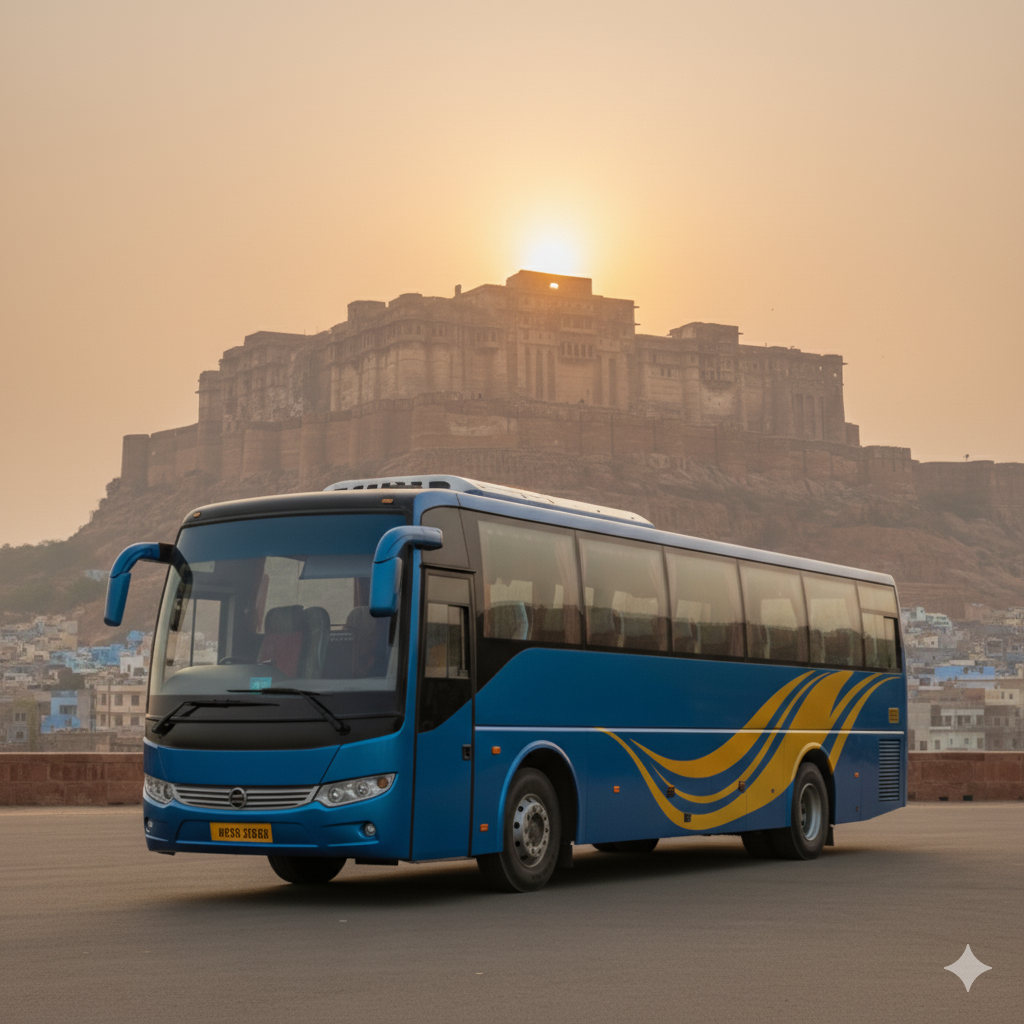
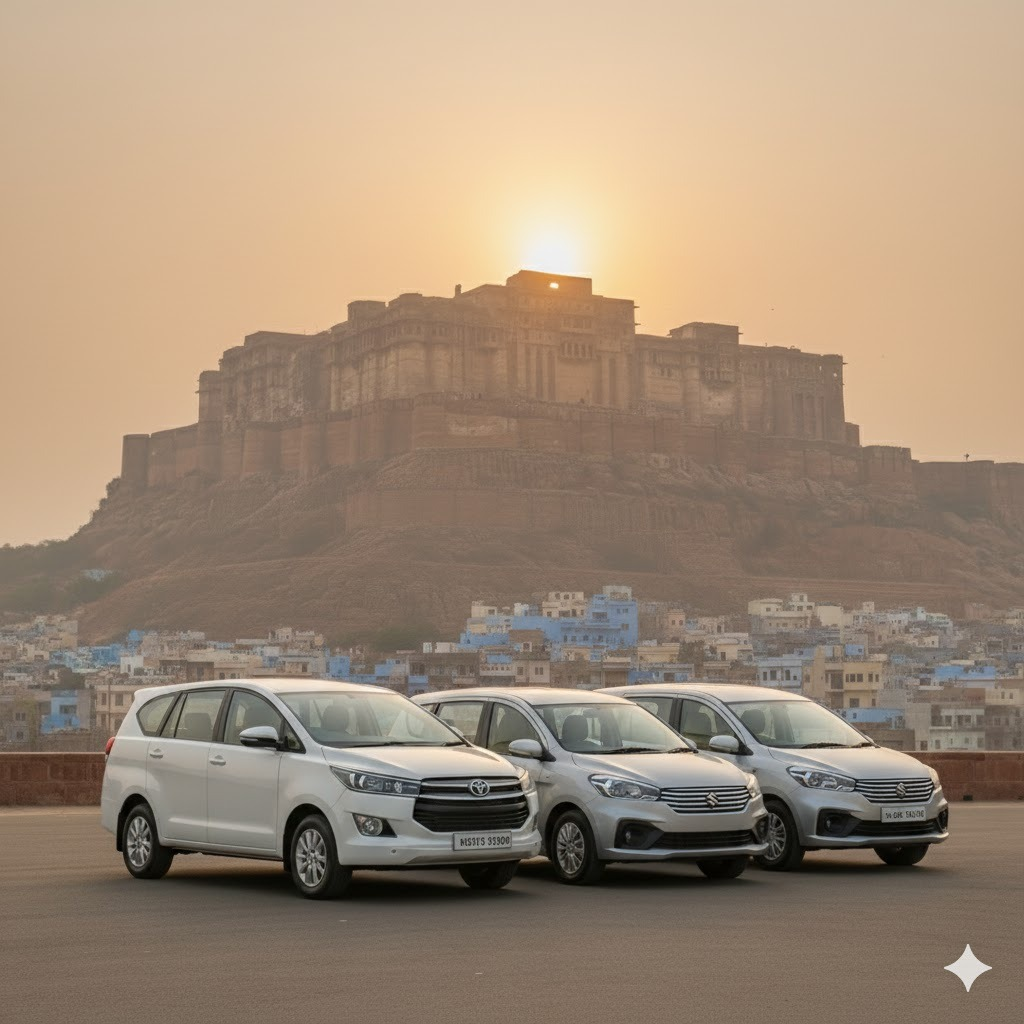
changes

Changed region(s): [[0.0625, 0.4375, 0.9375, 0.9062], [0.9062, 0.9062, 0.9688, 0.9688]]

diff --git a/frontend/src/Components/SchoolFleetServices/FleetServices.jsx b/frontend/src/Components/SchoolFleetServices/FleetServices.jsx
@@ -6,37 +6,37 @@ const FleetServices = () => {
   const fleetItems = [
     {
       title: "Student Safety First",
-      image: "/assets/schoolfleetservice.png",
+      image: "/assets/schoolfleetservice2.png",
       contentIcon: "/assets/safety-icon.svg",
       description: "Safety is our top priority. Our vehicles are equipped with GPS tracking, speed limit monitoring, CCTV cameras, and emergency response systems to ensure the security of every child."
     },
     {
       title: "Trained and Verified Drivers",
-      image: "/assets/schoolfleetservice.png",
+      image: "/assets/schoolfleetservice2.png",
       contentIcon:  "/assets/safety-icon.svg",
       description: "All our drivers undergo rigorous training in safety protocols and are thoroughly background-verified, also regularly counseled to uphold the highest standards of professionalism."
     },
     {
       title: "Reliable and Punctual Services",
-      image: "/assets/schoolfleetservice.png",
+      image: "/assets/schoolfleetservice2.png",
       contentIcon:  "/assets/safety-icon.svg",
       description: "We understand the importance of adhering to school schedules. Our fleet operations are meticulously planned to ensure on-time pickups and drop-offs every day."
     },
     {
       title: "Well-Maintained Vehicles",
-      image: "/assets/schoolfleetservice.png",
+      image: "/assets/schoolfleetservice2.png",
       contentIcon:  "/assets/safety-icon.svg",
       description: "Each vehicle in our fleet undergoes regular maintenance checks to ensure optimal performance, cleanliness, and roadworthiness."
     },
     {
       title: "Technology Integration",
-      image: "/assets/schoolfleetservice.png",
+      image: "/assets/schoolfleetservice2.png",
       contentIcon:  "/assets/safety-icon.svg",
       description: "Advanced technology like real-time tracking allows parents and school authorities to monitor the fleet's location, adding an extra layer."
     },
     {
       title: "Customizable Solutions",
-      image: "/assets/schoolfleetservice.png",
+      image: "/assets/schoolfleetservice2.png",
       contentIcon:  "/assets/safety-icon.svg",
       description: "Our services are tailored to meet the unique transportation requirements of different schools, whether it's for daily commutes or special events."
     }
@@ -107,7 +107,7 @@ const FleetServices = () => {
                   <img 
                     src={fleetItems[activeIndex].image} 
                     alt={`${fleetItems[activeIndex].title} Vehicle`}
-                    className="w-full h-64 object-cover rounded-xl"
+                    className="w-full h-90 object-cover rounded-xl"
                   />
                 </div>
                 

diff --git a/frontend/src/Components/Aboutus/Leadership.jsx b/frontend/src/Components/Aboutus/Leadership.jsx
@@ -1,10 +1,12 @@
 import React from "react";
 import img from '../../images/team/leadership.png'
 import { HiArrowRight } from "react-icons/hi";
+import { Link } from "react-router-dom";
+
 
 function CompanyStructure() {
   return (
-    <div className="min-h-screen py-12 px-4 bg-white flex flex-col items-center">
+    <div className=" py-12 px-4 bg-white flex flex-col items-center">
       <div className="max-w-5xl w-full flex flex-col md:flex-row gap-12 mb-12 items-stretch">
 
         <div className="flex-1 flex">
@@ -36,15 +38,19 @@ function CompanyStructure() {
 
 
           <div className="flex items-center gap-3 mt-8">
-            <a href="/structure" className="flex items-center">
-              <button className="bg-red-500 text-white font-semibold py-2 px-6 rounded-lg text-sm hover:bg-red-600 transition duration-300 flex items-center">
-                Know More
-              </button>
-              <button className="bg-red-500 text-white font-semibold ml-3 p-2 rounded-full hover:bg-red-600 transition duration-300 flex items-center justify-center">
-                <HiArrowRight className="text-white text-lg" />
-              </button>
-            </a>
-          </div>
+  <Link to="/structure" className="flex items-center">
+
+    <div className="bg-red-500 text-white font-semibold py-2 px-6 rounded-lg text-sm hover:bg-red-600 transition duration-300 flex items-center">
+      Know More
+    </div>
+
+    <div className="bg-red-500 text-white font-semibold ml-3 p-2 rounded-full hover:bg-red-600 transition duration-300 flex items-center justify-center">
+      <HiArrowRight className="text-white text-lg" />
+    </div>
+
+  </Link>
+</div>
+
         </div>
       </div>
     </div>

diff --git a/frontend/src/Components/Ournumbers.jsx b/frontend/src/Components/Ournumbers.jsx
@@ -58,9 +58,9 @@ const useCountUp = (end, duration = 3000) => {
 
 function Ournumbers() {
   const [experienceCount, experienceRef] = useCountUp(35);
-  const [employeesCount, employeesRef] = useCountUp(10000);
-  const [vehiclesCount, vehiclesRef] = useCountUp(4312);
-  const [clientsCount, clientsRef] = useCountUp(231);
+  const [employeesCount, employeesRef] = useCountUp(15000);
+  const [vehiclesCount, vehiclesRef] = useCountUp(4000);
+  const [clientsCount, clientsRef] = useCountUp(130);
   const [toursCount, toursRef] = useCountUp(97423);
 
   const stats = [
@@ -74,7 +74,7 @@ function Ournumbers() {
     {
       value: employeesCount,
       suffix: "+",
-      label: "Employees",
+      label: "Daily Employee Transportation",
       ref: employeesRef,
       icon: <GoPersonFill className="w-6 h-6 text-yellow-400 mr-2" />,
     },
@@ -88,14 +88,14 @@ function Ournumbers() {
     {
       value: clientsCount,
       suffix: "+",
-      label: "Corporate Clients",
+      label: "Clients",
       ref: clientsRef,
       icon: <MdCorporateFare className="w-6 h-6 text-yellow-400 mr-2" />,
     },
     {
       value: toursCount,
       suffix: "+",
-      label: "Successful Transportation",
+      label: "3.05 Million Trips in FY 24-25",
       ref: toursRef,
       icon: <BsBusFront className="w-6 h-6 text-yellow-400 mr-2" />,
     },

diff --git a/frontend/src/Components/Gallery/OurFirstBuses.jsx b/frontend/src/Components/Gallery/OurFirstBuses.jsx
@@ -1,0 +1,41 @@
+import React from "react";
+
+import img1 from '../../images/Gallery/restore 1.jpeg';
+import img2 from '../../images/Gallery/restore 2.jpeg';
+
+const OurFirstBuses = ({
+  title = "Our First Buses",
+  images = [img1, img2],
+}) => {
+  return (
+    <section className="py-12 px-4 bg-white">
+      <div className="max-w-4xl mx-auto">
+        <h2 className="text-3xl md:text-4xl font-extrabold text-gray-900 mb-8 text-center">
+          {title}
+        </h2>
+
+        <div className="grid grid-cols-1 md:grid-cols-2 gap-4">
+          {/* Image 1 */}
+          <div className="rounded-2xl overflow-hidden shadow-lg group h-64">
+            <img
+              src={images[0]}
+              alt="Historic CTTPL Bus"
+              className="w-full h-full object-cover transform group-hover:scale-105 transition-transform duration-300"
+            />
+          </div>
+
+          {/* Image 2 */}
+          <div className="rounded-2xl overflow-hidden shadow-lg group h-64">
+            <img
+              src={images[1]}
+              alt="Legacy Vehicle of CTTPL"
+              className="w-full h-full object-cover transform group-hover:scale-105 transition-transform duration-300"
+            />
+          </div>
+        </div>
+      </div>
+    </section>
+  );
+};
+
+export default OurFirstBuses;

diff --git a/frontend/src/Components/Aboutus/Page1.jsx b/frontend/src/Components/Aboutus/Page1.jsx
@@ -111,12 +111,12 @@ function Counter({ end = 0, duration = 1800, startOnView = true }) {
 
 export default function Home() {
   const stats = [
-    { icon: Car, number: 45, label: "Trusted Service" },
-    { icon: Users, number: 10000, label: "Happy Clients" },
-    { icon: Car, number: 4312, label: "Vehicles in Fleet" },
-    { icon: Building, number: 231, label: "Corporate Clients" },
-    { icon: Calendar, number: 97423, label: "Tours & Trips" },
-    { icon: MapPin, number: 10, label: "States & Cities" },
+    { icon: Car, number: 35, label: "Years of Trusted Service" },
+    { icon: Users, number: 15000, label: "Daily Employee Transportation" },
+    { icon: Car, number: 4000, label: "Vehicles and Fleets" },
+    { icon: Building, number: 130, label: "Clients" },
+    { icon: Calendar, number: 97450, label: "Tours & Trips" },
+    { icon: MapPin, number: 100, label: "Cities" },
   ];
 
   return (

diff --git a/frontend/src/Components/EmployeeTransportService.jsx b/frontend/src/Components/EmployeeTransportService.jsx
@@ -1,7 +1,7 @@
 import React from 'react';
 import Getintouch from "../Components/Getintouch";
 import Footer from "../Components/Footer";
-import OnSpotRentalsForm from '../Components/Booking';
+
 import FleetBestChoice from './SchoolFleetServices/FleetBestChoice';
 import Fleets from '../Components/Fleets';
 import DrivingWorkforce from './OScomponents/DrivingWorkforce';
@@ -13,8 +13,7 @@ function EmployeeTransportService() {
         <>
             {/* <Navbar /> */}
             <DrivingWorkforce/>
-            <br />
-            <OnSpotRentalsForm/>
+            
             <br />
             <EmployeeTransport/>
             <SafetyComfortCompliance/>

diff --git a/frontend/src/pages/DedicatedFleetService.jsx b/frontend/src/pages/DedicatedFleetService.jsx
@@ -1,6 +1,5 @@
 import Hero from "../Components/DedicatedFleet.jsx/Hero";
 import SafetyMeasures from "../Components/DedicatedFleet.jsx/Dedicated2";
-import OnSpotRentalsForm from '../Components/Booking'
 import SafetyComfortCompliance from '../Components/OScomponents/SafetyComfortCompliance'
 import FleetBestChoice from '../Components/SchoolFleetServices/FleetBestChoice'
 import Fleets from '../Components/Fleets'
@@ -10,7 +9,6 @@ function DedicatedService() {
     return ( 
         <>
         <Hero/>
-        <OnSpotRentalsForm/>
         <SafetyMeasures/>
         <SafetyComfortCompliance/>
         <FleetBestChoice/>

diff --git a/frontend/src/pages/CarLeasingService.jsx b/frontend/src/pages/CarLeasingService.jsx
@@ -1,6 +1,5 @@
 import React from 'react'
 import HeroCarLeasing from '../Components/CarLeasingServices/HeroCarLeasing'
-import OnSpotRentalsForm from '../Components/Booking'
 import FleetBestChoice from '../Components/SchoolFleetServices/FleetBestChoice'
 import Fleets from '../Components/Fleets'
 import ContactSection from '../Components/Getintouch'
@@ -10,7 +9,6 @@ const CarLeasingService = () => {
   return (
     <div>
         <HeroCarLeasing/>
-        <OnSpotRentalsForm/>
         {/* 1 section remaining */}
         <ReachOptions/>
         <FleetBestChoice/>

diff --git a/frontend/src/pages/SchoolFleetService.jsx b/frontend/src/pages/SchoolFleetService.jsx
@@ -1,6 +1,5 @@
 import React from 'react'
 import SchoolHero from '../Components/SchoolFleetServices/SchoolHero'
-import OnSpotRentalsForm from '../Components/Booking'
 import FleetServices from '../Components/SchoolFleetServices/FleetServices'
 import Fleets from '../Components/Fleets'
 import ContactSection from '../Components/Getintouch'
@@ -13,7 +12,6 @@ const SchoolFleetService = () => {
   return (
     <div>
         <SchoolHero/>
-        <OnSpotRentalsForm/>
         <FleetServices/>
         <SafetyComfortCompliance/>
         <FleetBestChoice/>

diff --git a/frontend/src/Components/ElectricFleetServices.jsx b/frontend/src/Components/ElectricFleetServices.jsx
@@ -1,7 +1,6 @@
 import React from 'react';
 import Getintouch from "../Components/Getintouch";
 import Footer from "../Components/Footer";
-import OnSpotRentalsForm from '../Components/Booking';
 import FleetBestChoice from './SchoolFleetServices/FleetBestChoice';
 import Fleets from '../Components/Fleets';
 import DS from './OScomponents/DS';
@@ -14,7 +13,6 @@ function ElectricFleetServices() {
             {/* <Navbar /> */}
             <DS />
             <br />
-            <OnSpotRentalsForm />
 
             <br />
             <EF />

diff --git a/frontend/src/pages/Gallery.jsx b/frontend/src/pages/Gallery.jsx
@@ -3,10 +3,11 @@ import IndependenceDayGallery from "../Components/Gallery/IndependenceDayGallery
 import YogaDayCelebration from "../Components/Gallery/YogaDayCelebration";
 import Session from "../Components/Gallery/Trainingsession";
 import NewCabsGallery from "../Components/Gallery/NewCabsGallery";
-
+import OurFirstBuses from "../Components/Gallery/Ourfirstbuses";
 function Gallery() {
     return (
         <>
+        <OurFirstBuses/>
         <FunTrainingGallery/>
         <IndependenceDayGallery/>
         <YogaDayCelebration/>

diff --git a/frontend/src/pages/OurServices.jsx b/frontend/src/pages/OurServices.jsx
@@ -1,6 +1,5 @@
 import React from 'react';
 import Getintouch from "../Components/Getintouch";
-import OnSpotRentalsForm from '../Components/Booking';
 import FleetSection from '../Components/OScomponents/FleetSection';
 import Os from '../Components/OScomponents/Os';
 import Fleets from '../Components/Fleets';
@@ -11,7 +10,6 @@ function OurServices() {
             {/* <Navbar /> */}
             <FleetSection/>
             <br />
-            <OnSpotRentalsForm/>
             <br />
 
            <Os/>
